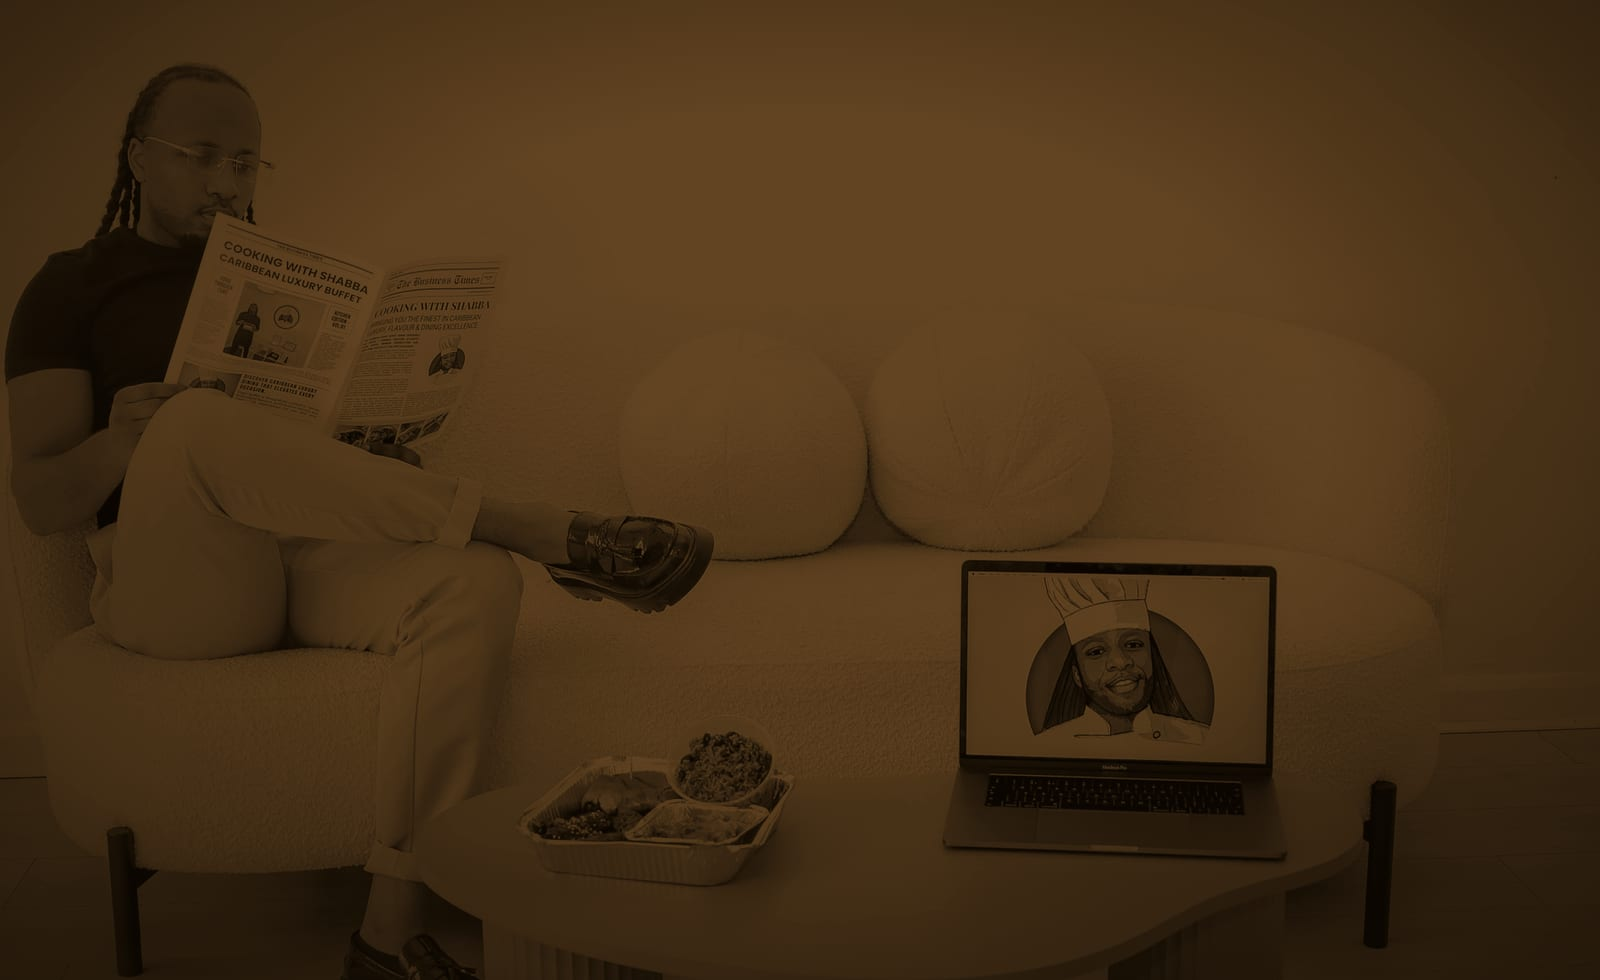
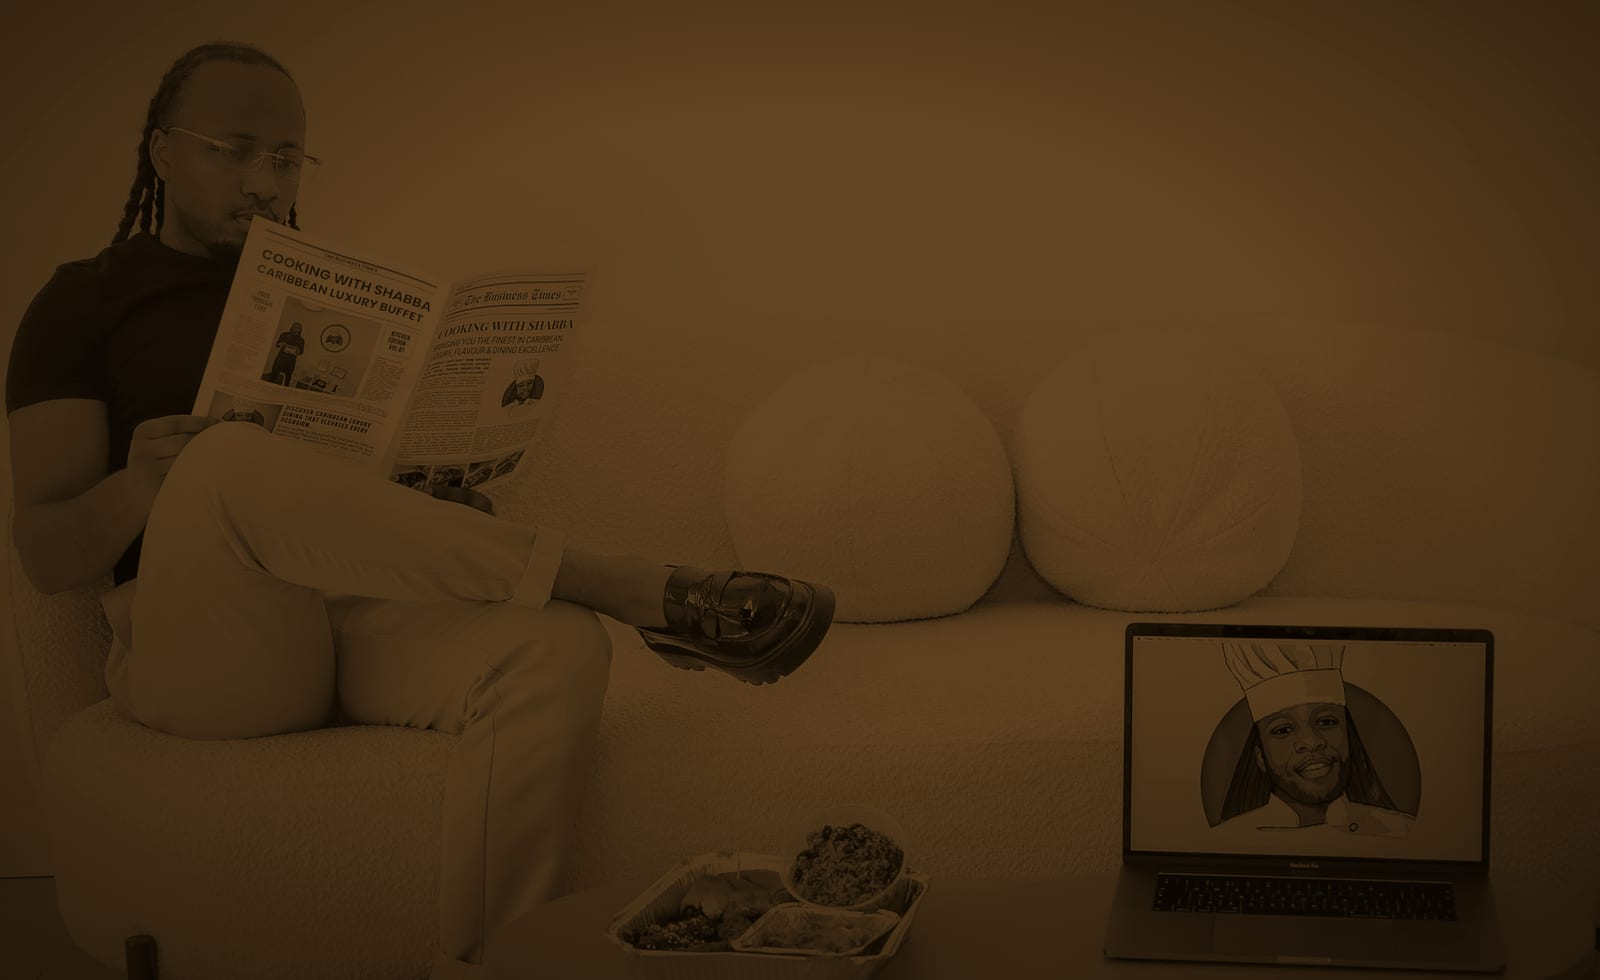
Reframe lifestyle band so the person reads on mobile
On phones the wide shot centred on empty sofa and clipped the person. Re-cropped the source to drop the empty right sofa + dead space (person now larger), and pan the band hard left on <=600px so the person is fully in frame with the food/laptop alongside. CSS v11; band-lifestyle.jpg ?v=3.

diff --git a/index.html b/index.html
@@ -28,7 +28,7 @@
   <link rel="preconnect" href="https://fonts.gstatic.com" crossorigin />
   <link href="https://fonts.googleapis.com/css2?family=Cormorant+Garamond:ital,wght@0,400;0,500;0,600;1,400;1,500&family=DM+Sans:opsz,wght@9..40,300;9..40,400;9..40,500&display=swap" rel="stylesheet" />
 
-  <link rel="stylesheet" href="assets/css/styles.css?v=10" />
+  <link rel="stylesheet" href="assets/css/styles.css?v=11" />
 
   <!-- Structured data -->
   <script type="application/ld+json">
@@ -266,7 +266,7 @@
 
     <!-- ============ IMAGE BAND — the brand/at-home experience ============ -->
     <section class="band band--lifestyle" aria-label="The experience at home">
-      <img class="gallery-img band__img" src="assets/images/band-lifestyle.jpg?v=2" alt="Cooking with Shabba — a relaxed Caribbean dining moment at home" loading="lazy" data-parallax="22" />
+      <img class="gallery-img band__img" src="assets/images/band-lifestyle.jpg?v=3" alt="Cooking with Shabba — a relaxed Caribbean dining moment at home" loading="lazy" data-parallax="22" />
       <div class="band__scrim"></div>
       <p class="band__line reveal"><span class="rule"></span>Caribbean luxury, brought to your table</p>
     </section>

diff --git a/assets/css/styles.css b/assets/css/styles.css
@@ -1467,6 +1467,10 @@ a { color: inherit; text-decoration: none; }
 @media (max-width: 600px) {
   .menu__cols { grid-template-columns: 1fr; gap: 0; }
 
+  /* Pan the lifestyle band hard left so the person reads, dropping the empty
+     sofa on the right (the food + branded laptop stay in frame). */
+  .band--lifestyle .band__img { object-position: 0% center; }
+
   .gallery__grid {
     grid-template-columns: 1fr 1fr;
     grid-auto-rows: 160px;
